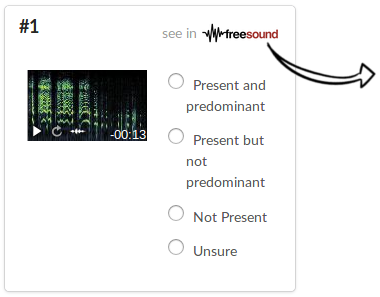
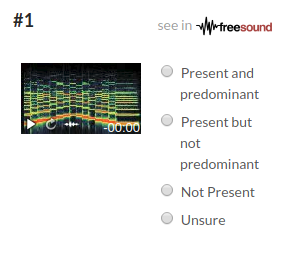
Small changes in instructions

diff --git a/datasets/templates/datasets/contribute_validate_annotations_help.html b/datasets/templates/datasets/contribute_validate_annotations_help.html
@@ -106,7 +106,7 @@
             <p style="margin-top:-25px;">By clicking on a related category you can display more information about it:</p>
         </div>
         <center>
-            <img class="ui bordered shaded centered image" style="width:100%;box-shadow: 1px 4px 8px 1px rgba(0, 0, 0, 0.2), 1px 6px 20px 1px rgba(0, 0, 0, 0.19);margin-left:15px;margin-top:30px;" src="{% static 'img/train_interface.gif' %}"/><br>
+            <img class="ui bordered image" style="width:85%;margin-top:20px;margin-left:40px;box-shadow: 1px 4px 4px 1px rgba(0, 0, 0, 0.2), 1px 4px 10px 1px rgba(0, 0, 0, 0.19);" src="{% static 'img/interface_train.gif' %}"/><br>
         </center>
       </div>
 
@@ -142,12 +142,15 @@
 
 <div class="ui grid" style="wide:120%;">
   <div class="six wide column">
-      <center><img class="ui medium image" src="{% static 'img/interface_sound.gif' %}" style="width:80%;box-shadow: 1px 4px 8px 1px rgba(0, 0, 0, 0.2), 1px 6px 20px 1px rgba(0, 0, 0, 0.19);"/><br>
+      <center>
+      <div class="ui raised segment" style="margin: 0px 25px 25px 25px;">
+      <img src="{% static 'img/one_vote.png' %}" style="width:100%;"/><br>
+         </div>
       <p> In case of doubt, click to the <img class="ui inline image" style="width:80px;" src="{% static 'img/freesound_logo_color.png' %}"> link
       to check the sound’s description and tags.</p></center>
   </div>
   <div class="ten wide column">
-      <table class="ui compact segment table"  style="width:100%;box-shadow: 1px 4px 8px 1px rgba(0, 0, 0, 0.2), 1px 6px 20px 1px rgba(0, 0, 0, 0.19);">
+      <table class="ui compact segment table"  style="width:100%;box-shadow: 1px 4px 4px 1px rgba(0, 0, 0, 0.2), 1px 4px 10px 1px rgba(0, 0, 0, 0.19);">
         <thead>
             <tr><th>Response type</th>
             <th>Meaning</th>
